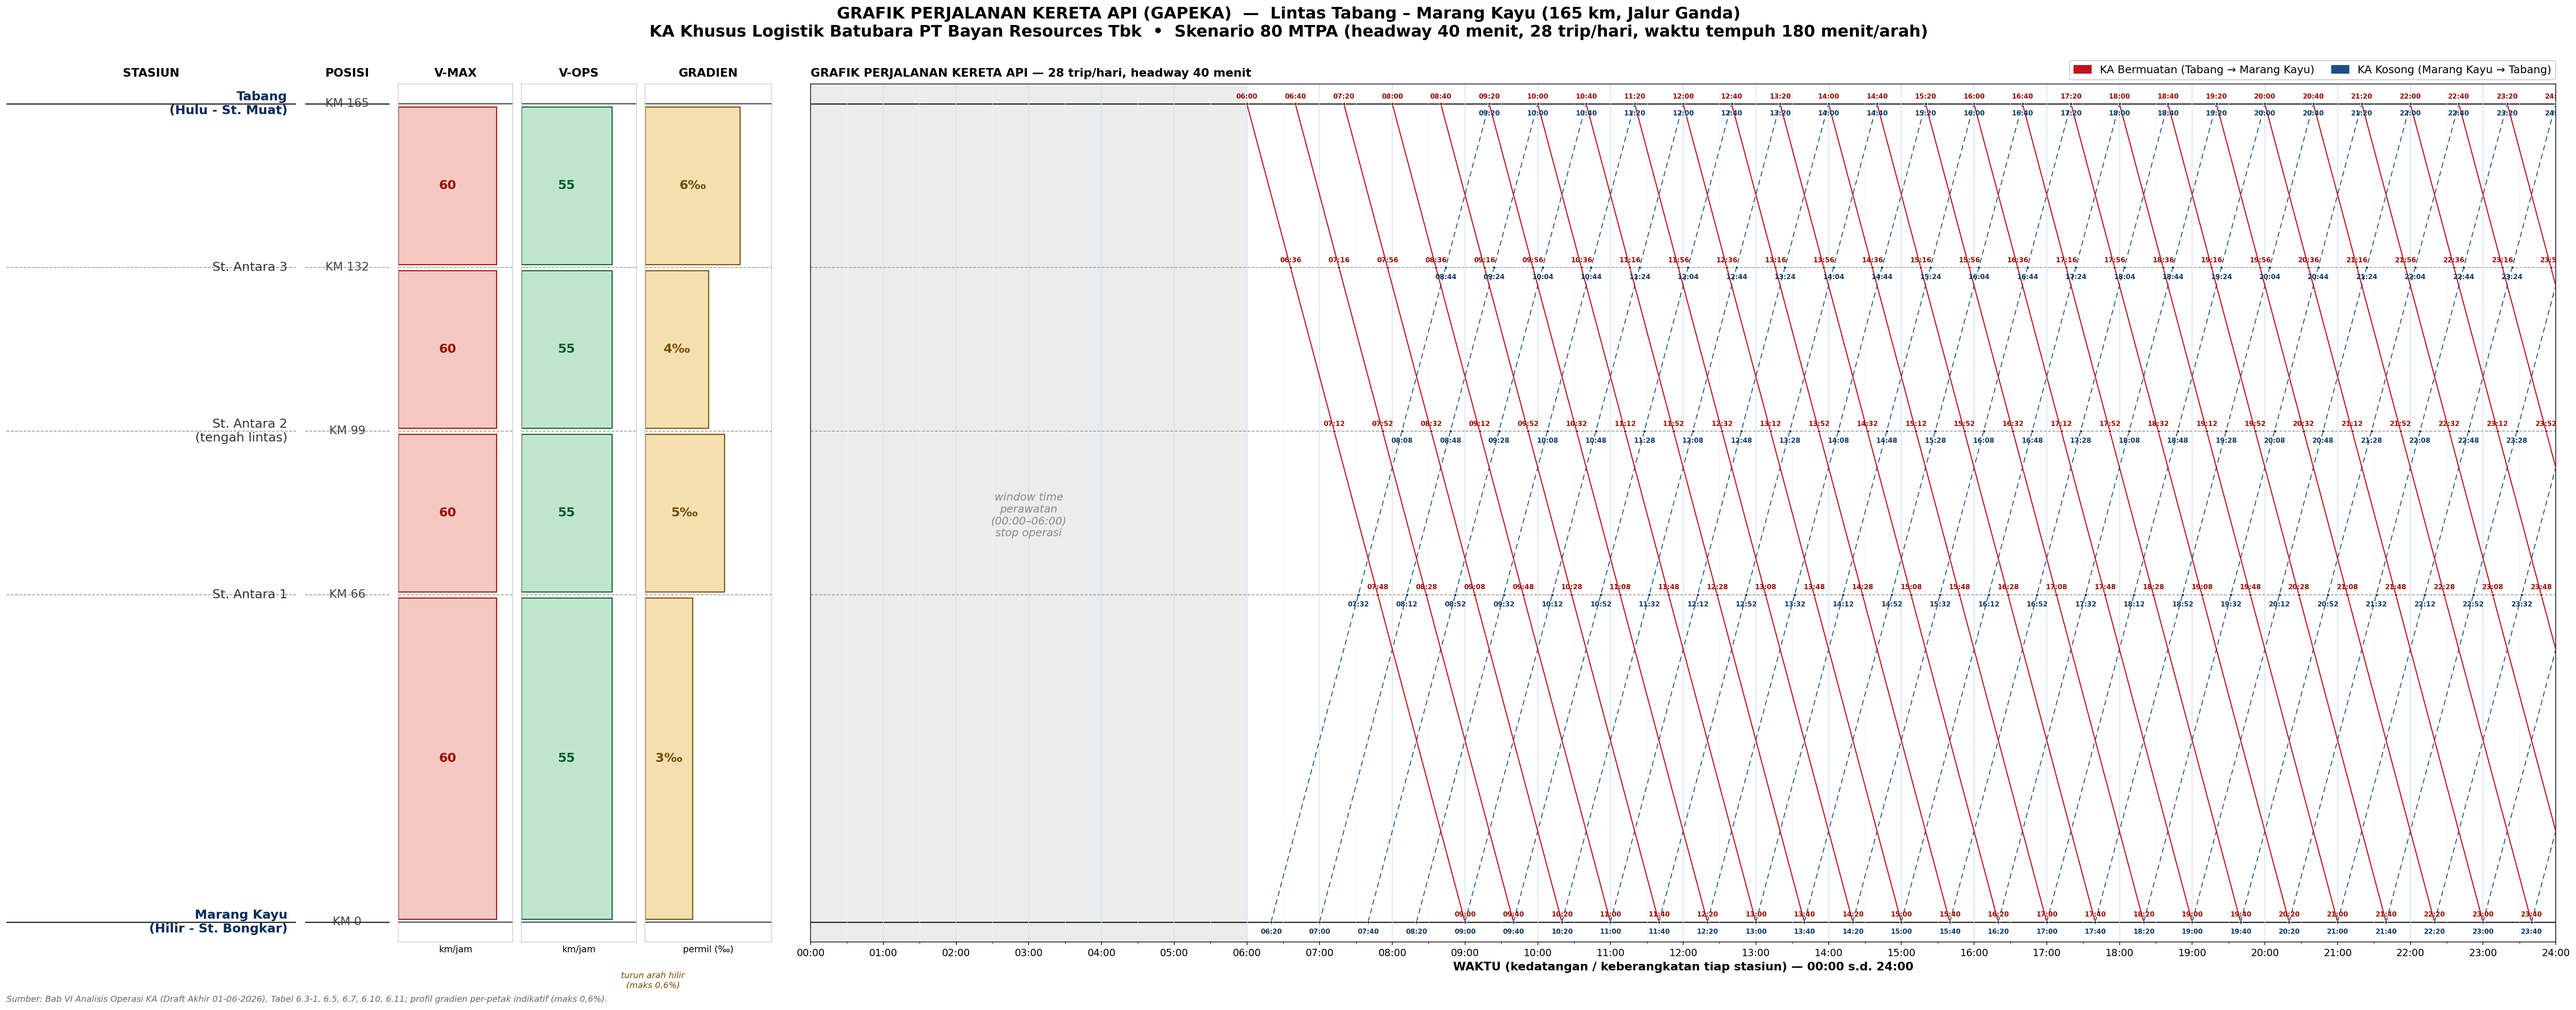
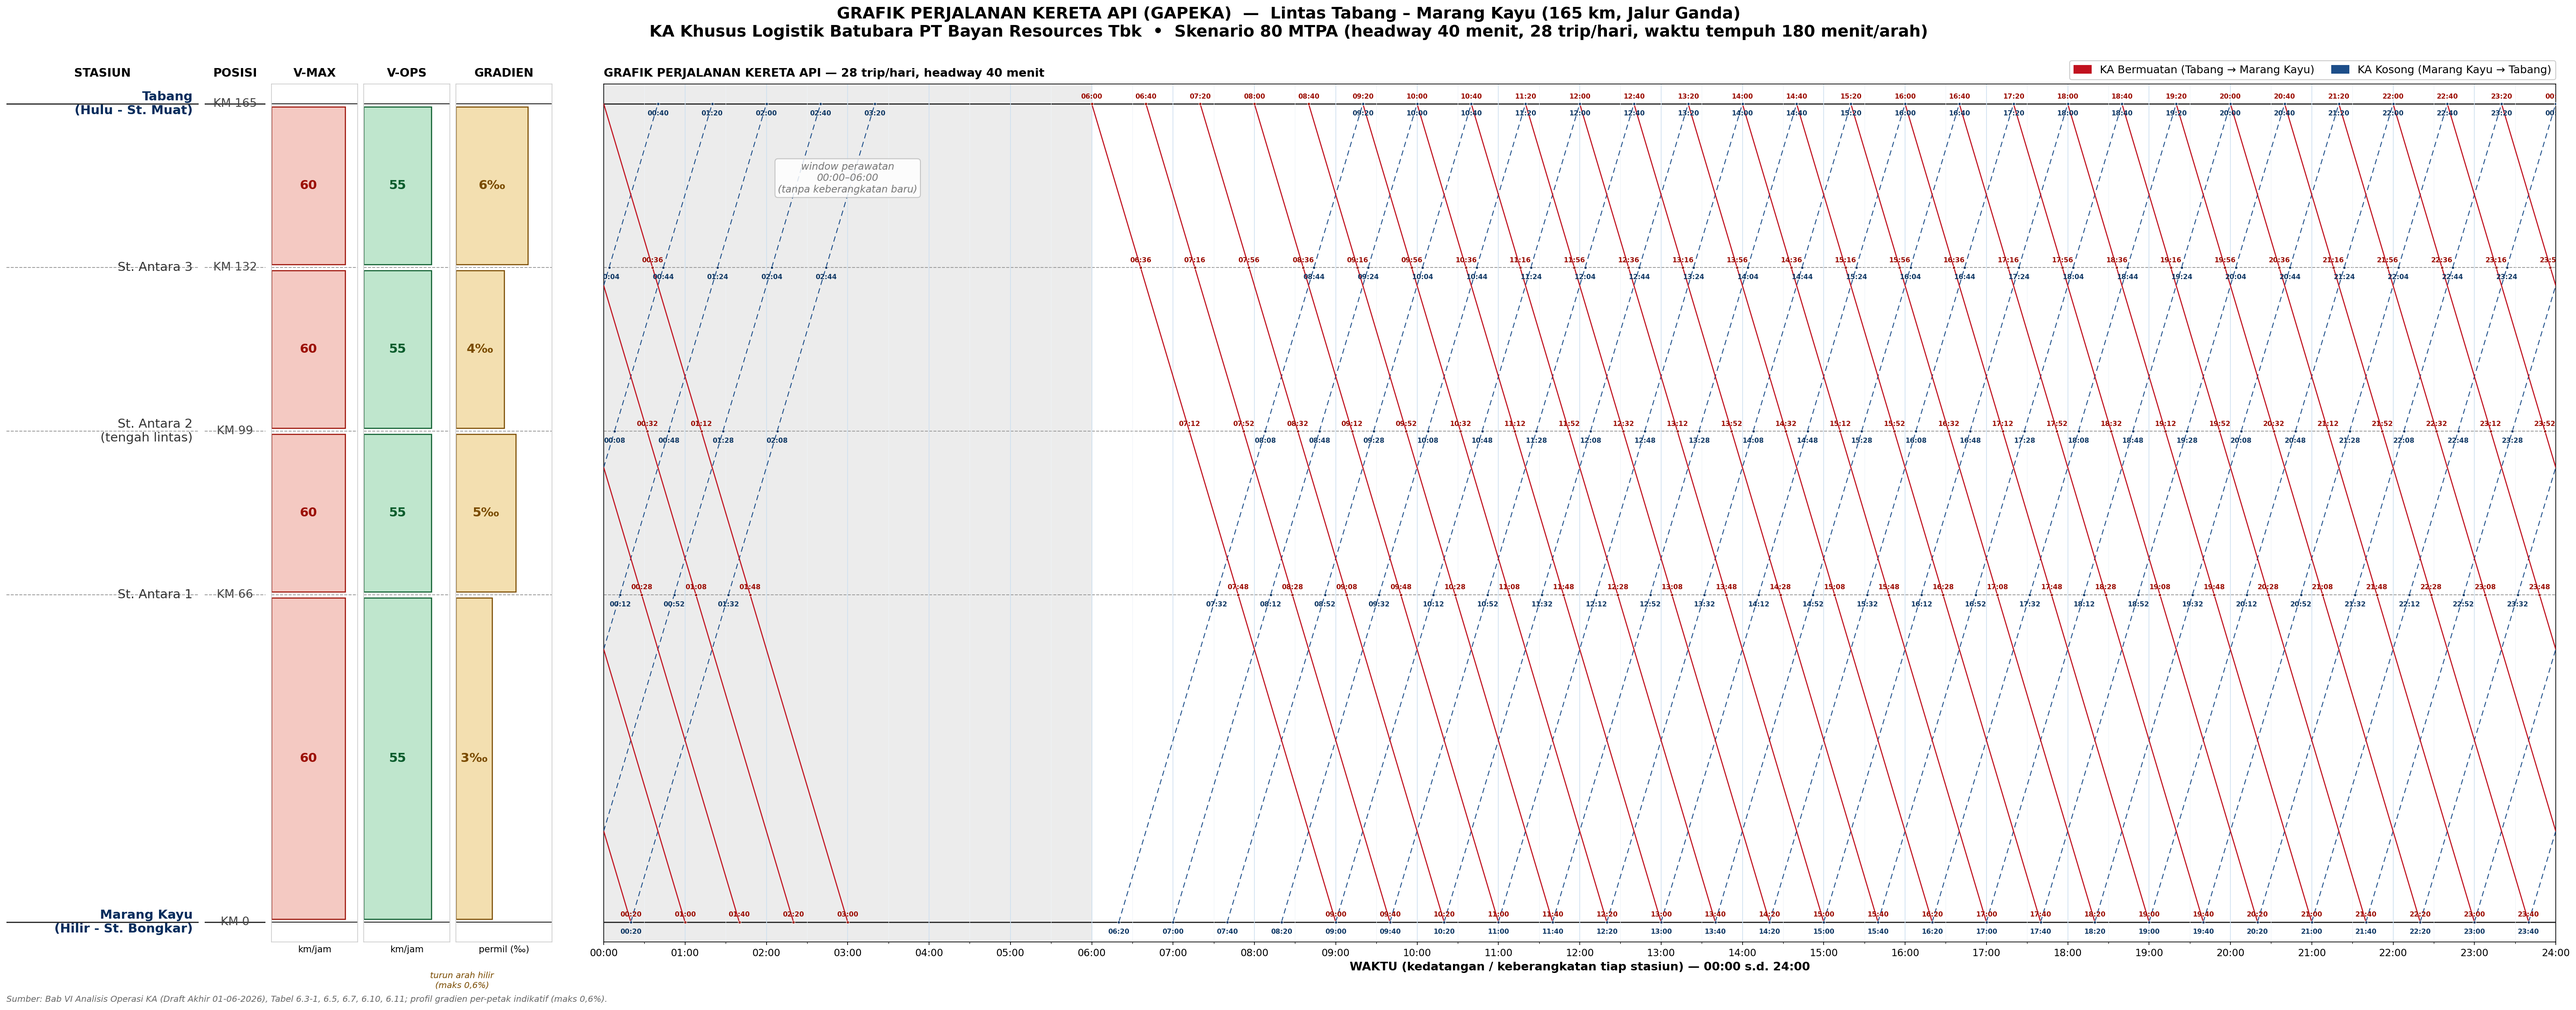
Make 80 MTPA GAPEKA cyclic (wrap post-24:00 trips to 00:00); slim station column for wider chart

diff --git a/outputs/make_gapeka.py b/outputs/make_gapeka.py
@@ -68,14 +68,14 @@ def build(scn, annotate_all=False, dpi=150, figsize=(22, 11.5)):
     plt.rcParams.update({"font.family": "DejaVu Sans", "font.size": 9})
     fig = plt.figure(figsize=figsize, dpi=dpi)
     gs = GridSpec(1, 5, figure=fig,
-                  width_ratios=[2.4, 0.7, 0.95, 0.95, 1.05],
-                  wspace=0.06, left=0.004, right=0.30, top=0.90, bottom=0.07)
+                  width_ratios=[1.9, 0.6, 0.85, 0.85, 0.95],
+                  wspace=0.06, left=0.004, right=0.215, top=0.90, bottom=0.07)
     ax_name = fig.add_subplot(gs[0, 0])
     ax_km   = fig.add_subplot(gs[0, 1], sharey=ax_name)
     ax_vmax = fig.add_subplot(gs[0, 2], sharey=ax_name)
     ax_vops = fig.add_subplot(gs[0, 3], sharey=ax_name)
     ax_grad = fig.add_subplot(gs[0, 4], sharey=ax_name)
-    ax_main = fig.add_axes([0.315, 0.07, 0.675, 0.83], sharey=ax_name)
+    ax_main = fig.add_axes([0.235, 0.07, 0.755, 0.83], sharey=ax_name)
 
     for ax in (ax_name, ax_km, ax_vmax, ax_vops, ax_grad, ax_main):
         ax.set_ylim(YMIN - 4, YMAX + 4)
@@ -140,14 +140,29 @@ def build(scn, annotate_all=False, dpi=150, figsize=(22, 11.5)):
 
     lw_l, lw_e = (1.2, 1.0) if annotate_all else (1.7, 1.3)
     lab_fs = 7.5 if annotate_all else 7.6
+    DAY = 24 * 60  # batas 24:00; perjalanan yang melewatinya dibungkus (wrap) ke 00:00
 
-    def node_labels(pts, color, dy):
-        for (t, km) in pts:
-            ax_main.plot(t, km, "o", ms=3.2, color=color, mec="white", mew=0.5, zorder=6)
-            ax_main.annotate(hhmm(t), (t, km), textcoords="offset points",
-                             xytext=(0, dy), ha="center",
-                             fontsize=lab_fs, color=color, zorder=7, fontweight="bold",
-                             rotation=0, clip_on=True)
+    def draw_path(pts, color, lw, ls, lab_color=None, dy=0, zorder=4):
+        kw = dict(color=color, lw=lw, ls=ls, zorder=zorder)
+        if ls == "-":
+            kw["solid_capstyle"] = "round"
+        # gambar tiap petak; bagi di batas 24:00 lalu lanjutkan di sisi kiri (t-DAY)
+        for (t0, k0), (t1, k1) in zip(pts, pts[1:]):
+            if t1 <= DAY:
+                ax_main.plot([t0, t1], [k0, k1], **kw)
+            elif t0 >= DAY:
+                ax_main.plot([t0 - DAY, t1 - DAY], [k0, k1], **kw)
+            else:
+                f = (DAY - t0) / (t1 - t0); kb = k0 + f * (k1 - k0)
+                ax_main.plot([t0, DAY], [k0, kb], **kw)
+                ax_main.plot([0, t1 - DAY], [kb, k1], **kw)
+        if lab_color is not None:
+            for (t, km) in pts:
+                x = t if t <= DAY else t - DAY
+                ax_main.plot(x, km, "o", ms=3.2, color=lab_color, mec="white", mew=0.5, zorder=6)
+                ax_main.annotate(hhmm(t % DAY), (x, km), textcoords="offset points",
+                                 xytext=(0, dy), ha="center", fontsize=lab_fs,
+                                 color=lab_color, zorder=7, fontweight="bold", clip_on=True)
 
     # Sesi operasi 06:00-24:00 (mulai pukul 06:00 per dokumen); 00:00-06:00 = window perawatan
     OP_START = 6 * 60
@@ -155,17 +170,13 @@ def build(scn, annotate_all=False, dpi=150, figsize=(22, 11.5)):
     # KA bermuatan (Tabang -> MK), berangkat tiap headway sejumlah frekuensi
     for i in range(freq):
         pts = path_loaded(OP_START + i * headway)
-        ax_main.plot([p[0] for p in pts], [p[1] for p in pts],
-                     color="#c1121f", lw=lw_l, solid_capstyle="round", zorder=4)
-        if annotate_all:
-            node_labels(pts, "#9c1006", dy=6)
+        draw_path(pts, "#c1121f", lw_l, "-",
+                  lab_color=("#9c1006" if annotate_all else None), dy=6, zorder=4)
     # KA kosong (MK -> Tabang)
     for i in range(freq):
         pts = path_empty(OP_START + i * headway + headway / 2)
-        ax_main.plot([p[0] for p in pts], [p[1] for p in pts],
-                     color="#1d4e89", lw=lw_e, ls=(0, (6, 4)), zorder=3)
-        if annotate_all:
-            node_labels(pts, "#123a66", dy=-13)
+        draw_path(pts, "#1d4e89", lw_e, (0, (6, 4)),
+                  lab_color=("#123a66" if annotate_all else None), dy=-13, zorder=3)
 
     if not annotate_all:
         # KA referensi (Tabang dep 06:00) + anotasi waktu tiap stasiun
@@ -178,10 +189,11 @@ def build(scn, annotate_all=False, dpi=150, figsize=(22, 11.5)):
                              color="#7a0a13", zorder=7,
                              bbox=dict(boxstyle="round,pad=0.18", fc="#fff3f3", ec="#c1121f", lw=0.6))
 
-    # window perawatan (stop operasi total) = 00:00 - 06:00
+    # window perawatan = 00:00 - 06:00 (tanpa keberangkatan baru; hanya sisa perjalanan yg masuk dari 24:00)
     ax_main.axvspan(T_START, OP_START, color="#ececec", zorder=0)
-    ax_main.text(OP_START / 2, 82, "window time\nperawatan\n(00:00–06:00)\nstop operasi",
-                 ha="center", va="center", fontsize=12, color="#888", style="italic")
+    ax_main.text(OP_START / 2, 150, "window perawatan\n00:00–06:00\n(tanpa keberangkatan baru)",
+                 ha="center", va="center", fontsize=11, color="#777", style="italic", zorder=8,
+                 bbox=dict(boxstyle="round,pad=0.3", fc="white", ec="#bbb", alpha=0.85))
 
     leg = [mpatches.Patch(color="#c1121f", label="KA Bermuatan (Tabang → Marang Kayu)"),
            mpatches.Patch(color="#1d4e89", label="KA Kosong (Marang Kayu → Tabang)")]
